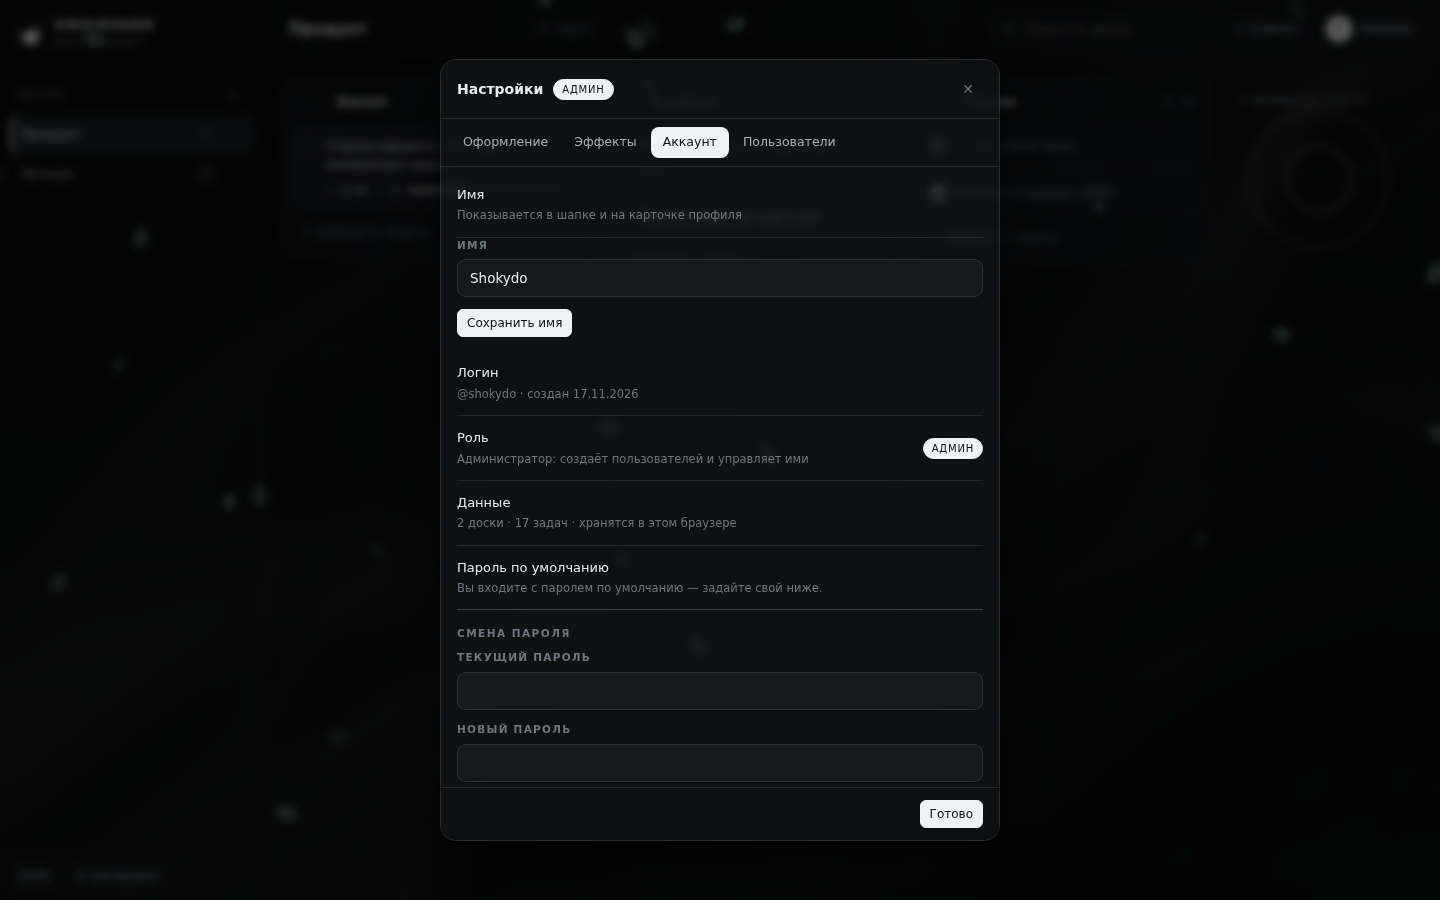
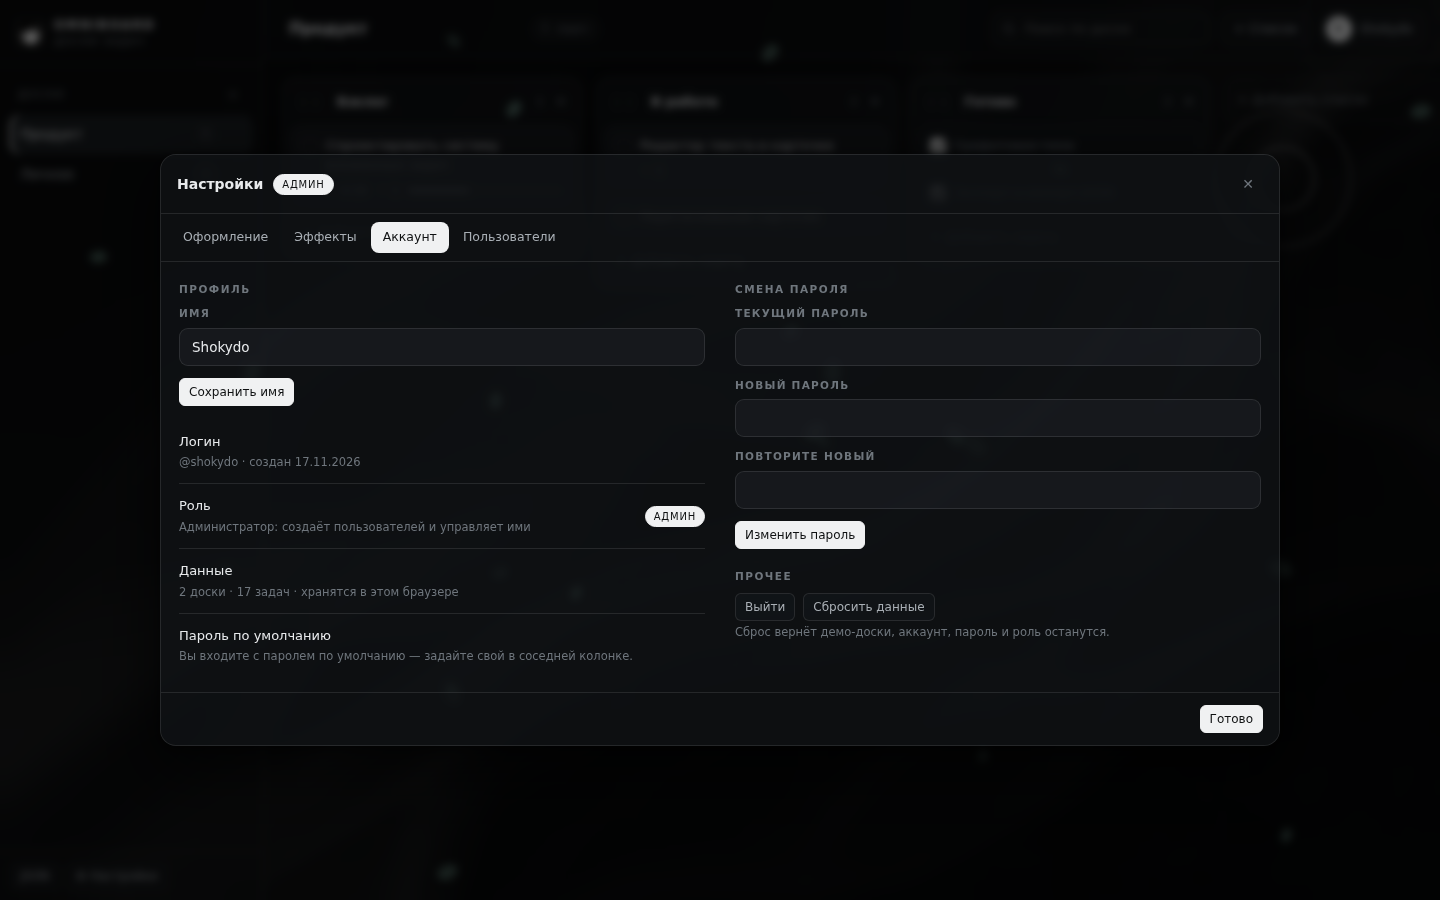
Окно настроек вдвое шире: двухколоночная раскладка вкладок

diff --git a/index.html b/index.html
@@ -511,7 +511,7 @@ html[data-theme="light"] .auth{background:linear-gradient(165deg, rgba(232,235,2
 .ubadge.admin{background:var(--solid);color:var(--solid-text);border-color:var(--solid)}
 .uacts{display:flex;gap:6px;flex:0 0 auto}
 .uacts .btn{padding:5px 9px;font-size:11.5px}
-.unew{margin-top:4px;padding-top:12px;border-top:1px dashed var(--line-2)}
+.unew{margin-top:4px}
 .auth-lead{font-size:12px;letter-spacing:.1em;text-transform:uppercase;color:var(--muted);margin:0 0 14px;font-weight:600}
 .auth-tabs{display:flex;gap:4px;background:var(--panel-2);border:1px solid var(--line);border-radius:10px;padding:4px;margin-bottom:18px}
 .auth-tab{flex:1;height:32px;border-radius:7px;color:var(--text-2);font-size:13px;font-weight:600;transition:.12s}
@@ -542,7 +542,7 @@ html[data-theme="light"] .auth{background:linear-gradient(165deg, rgba(232,235,2
 }
 html[data-theme="light"] .prefs{background:rgba(38,44,50,.42)}
 .prefs-card{
-  width:100%;max-width:560px;background:var(--panel);border:1px solid var(--line);border-radius:16px;
+  width:100%;max-width:1120px;background:var(--panel);border:1px solid var(--line);border-radius:16px;
   box-shadow:var(--shadow);overflow:hidden;margin:auto;
 }
 .prefs-head{display:flex;align-items:center;gap:10px;padding:14px 16px;border-bottom:1px solid var(--line);background:var(--bg-2)}
@@ -551,7 +551,21 @@ html[data-theme="light"] .prefs{background:rgba(38,44,50,.42)}
 .prefs-tabs button{padding:6px 12px;border-radius:8px;font-size:12.5px;color:var(--text-2);font-weight:500;white-space:nowrap;flex:0 0 auto}
 .prefs-tabs button:hover{color:var(--text);background:var(--panel-2)}
 .prefs-tabs button.on{background:var(--solid);color:var(--solid-text)}
-.prefs-body{padding:6px 16px 14px;max-height:min(70vh,620px);overflow:auto}
+.prefs-body{padding:6px 18px 14px;max-height:min(74vh,660px);overflow:auto}
+.fx-col{min-width:0}
+@media (min-width:1000px){
+  .prefs-body{display:grid;grid-template-columns:1fr 1fr;column-gap:30px;align-items:start}
+  .prefs-body > .prefs-row{grid-column:auto}
+  .prefs-body > .sec-title,
+  .prefs-body > .prefs-sub,
+  .prefs-body > .auth-msg,
+  .prefs-body > .field,
+  .prefs-body > .unew,
+  .prefs-body > .ulist,
+  .prefs-body > .prefs-hint,
+  .prefs-body > div[style]{grid-column:1 / -1}
+  .prefs-row + .prefs-row{border-top:0}
+}
 .prefs-foot{display:flex;gap:8px;justify-content:space-between;padding:12px 16px;border-top:1px solid var(--line);background:var(--bg-2)}
 .prefs-row{display:flex;align-items:center;justify-content:space-between;gap:14px;padding:12px 0;border-bottom:1px solid var(--line)}
 .prefs-row:last-child{border-bottom:0}
@@ -3212,6 +3226,7 @@ function fxTabHTML(){
   var shapes = [['snow', 'Снег'], ['flakes', 'Снежинки'], ['crosses', 'Крестики'], ['patterns', 'Узоры'], ['leaves', 'Листья']];
   var clicks = [['off', 'Нет'], ['wave', 'Волна'], ['ripple', 'Круг'], ['cross', 'Крестики'], ['spark', 'Искры']];
   return '' +
+    '<div class="fx-col">' +
     '<div class="sec-title" style="margin:14px 0 4px">Падающие частицы</div>' +
     '<div class="prefs-row"><div class="pr-main"><div class="prefs-label">Показывать частицы</div>' +
       '<div class="prefs-hint">Снежинки, крестики, узоры или листья поверх интерфейса</div></div>' +
@@ -3226,8 +3241,10 @@ function fxTabHTML(){
         '<output>' + (parseFloat(pt.speed) || 1).toFixed(1) + '×</output></div>' +
       colorRow('particles', pt.color, 'Цвет') +
     '</div>' +
+    '</div>' +
 
-    '<div class="sec-title" style="margin:18px 0 4px">Реакция на клик</div>' +
+    '<div class="fx-col">' +
+    '<div class="sec-title" style="margin:14px 0 4px">Реакция на клик</div>' +
     '<div class="slider-row"><label>Эффект</label>' + segHTML('ctype', clicks, ck.type) + '</div>' +
     '<div class="slider-row" style="' + (ck.type === 'off' ? 'opacity:.5' : '') + '"><label>Размер</label>' +
       '<input type="range" min="1" max="3" step="1" value="' + (parseInt(ck.size, 10) || 1) + '" data-range="csize">' +
@@ -3237,7 +3254,8 @@ function fxTabHTML(){
       '<button class="btn sm" data-prefs="test-fx">Проверить</button>' +
       '<span class="prefs-hint" style="margin:0">эффект срабатывает на любой клик мышью или пальцем</span></div>' +
     '<div class="prefs-hint">Цвет «Авто» следует теме: белый на тёмной, тёмно-серый на светлой. ' +
-      'Движение уважает системную настройку «уменьшить движение».</div>';
+      'Движение уважает системную настройку «уменьшить движение».</div>' +
+    '</div>';
 }
 
 /* ---------- вкладка «Аккаунт» ---------- */
@@ -3249,47 +3267,50 @@ function accountTabHTML(){
   var tasks = Object.keys(state.tasks).length;
 
   return '' +
-    '<div class="prefs-row"><div class="pr-main"><div class="prefs-label">Имя</div>' +
-      '<div class="prefs-hint">Показывается в шапке и на карточке профиля</div></div></div>' +
-    '<div class="field"><label for="acName">Имя</label>' +
-      '<input class="input" id="acName" value="' + esc(currentUser.name) + '"></div>' +
-    '<div style="margin-bottom:14px"><button class="btn solid sm" data-acc-act="save-name">Сохранить имя</button></div>' +
+    '<div class="fx-col">' +
+      '<div class="sec-title" style="margin:14px 0 8px">Профиль</div>' +
+      '<div class="field"><label for="acName">Имя</label>' +
+        '<input class="input" id="acName" value="' + esc(currentUser.name) + '"></div>' +
+      '<div style="margin-bottom:14px"><button class="btn solid sm" data-acc-act="save-name">Сохранить имя</button></div>' +
 
-    '<div class="prefs-row"><div class="pr-main"><div class="prefs-label">Логин</div>' +
-      '<div class="prefs-hint">@' + esc(currentUser.login) + ' · создан ' + fmtDate(rec && rec.created) + '</div></div></div>' +
+      '<div class="prefs-row"><div class="pr-main"><div class="prefs-label">Логин</div>' +
+        '<div class="prefs-hint">@' + esc(currentUser.login) + ' · создан ' + fmtDate(rec && rec.created) + '</div></div></div>' +
 
-    '<div class="prefs-row"><div class="pr-main"><div class="prefs-label">Роль</div>' +
-      '<div class="prefs-hint">' + (currentUser.role === 'admin'
-        ? 'Администратор: создаёт пользователей и управляет ими'
-        : 'Пользователь: свои доски и оформление') + '</div></div>' + roleBadge(currentUser.role) + '</div>' +
+      '<div class="prefs-row"><div class="pr-main"><div class="prefs-label">Роль</div>' +
+        '<div class="prefs-hint">' + (currentUser.role === 'admin'
+          ? 'Администратор: создаёт пользователей и управляет ими'
+          : 'Пользователь: свои доски и оформление') + '</div></div>' + roleBadge(currentUser.role) + '</div>' +
 
-    '<div class="prefs-row"><div class="pr-main"><div class="prefs-label">Данные</div>' +
-      '<div class="prefs-hint">' + boards + ' ' + plural(boards, ['доска', 'доски', 'досок']) + ' · ' +
-      tasks + ' ' + plural(tasks, ['задача', 'задачи', 'задач']) + ' · хранятся в этом браузере</div></div></div>' +
+      '<div class="prefs-row"><div class="pr-main"><div class="prefs-label">Данные</div>' +
+        '<div class="prefs-hint">' + boards + ' ' + plural(boards, ['доска', 'доски', 'досок']) + ' · ' +
+        tasks + ' ' + plural(tasks, ['задача', 'задачи', 'задач']) + ' · хранятся в этом браузере</div></div></div>' +
 
-    (rec && rec.defaultPw
-      ? '<div class="prefs-row" style="border-color:var(--line-2)"><div class="pr-main">' +
-          '<div class="prefs-label">Пароль по умолчанию</div>' +
-          '<div class="prefs-hint">Вы входите с паролем по умолчанию — задайте свой ниже.</div></div></div>'
-      : '') +
-
-    '<div class="auth-msg" id="acMsg"></div>' +
-
-    '<div class="sec-title" style="margin:16px 0 8px">Смена пароля</div>' +
-    '<div class="field"><label for="acCur">Текущий пароль</label>' +
-      '<input class="input" id="acCur" type="password" autocomplete="current-password"></div>' +
-    '<div class="field"><label for="acNew">Новый пароль</label>' +
-      '<input class="input" id="acNew" type="password" autocomplete="new-password"></div>' +
-    '<div class="field"><label for="acNew2">Повторите новый</label>' +
-      '<input class="input" id="acNew2" type="password" autocomplete="new-password"></div>' +
-    '<button class="btn solid sm" data-acc-act="save-pass">Изменить пароль</button>' +
-
-    '<div class="sec-title" style="margin:18px 0 8px">Прочее</div>' +
-    '<div style="display:flex;gap:8px;flex-wrap:wrap">' +
-      '<button class="btn sm" data-acc-act="logout">Выйти</button>' +
-      '<button class="btn sm danger" data-acc-act="reset">Сбросить данные</button>' +
+      (rec && rec.defaultPw
+        ? '<div class="prefs-row" style="border-color:var(--line-2)"><div class="pr-main">' +
+            '<div class="prefs-label">Пароль по умолчанию</div>' +
+            '<div class="prefs-hint">Вы входите с паролем по умолчанию — задайте свой в соседней колонке.</div></div></div>'
+        : '') +
     '</div>' +
-    '<div class="prefs-hint">Сброс вернёт демо-доски, аккаунт, пароль и роль останутся.</div>';
+
+    '<div class="fx-col">' +
+      '<div class="sec-title" style="margin:14px 0 8px">Смена пароля</div>' +
+      '<div class="field"><label for="acCur">Текущий пароль</label>' +
+        '<input class="input" id="acCur" type="password" autocomplete="current-password"></div>' +
+      '<div class="field"><label for="acNew">Новый пароль</label>' +
+        '<input class="input" id="acNew" type="password" autocomplete="new-password"></div>' +
+      '<div class="field"><label for="acNew2">Повторите новый</label>' +
+        '<input class="input" id="acNew2" type="password" autocomplete="new-password"></div>' +
+      '<button class="btn solid sm" data-acc-act="save-pass">Изменить пароль</button>' +
+
+      '<div class="sec-title" style="margin:20px 0 8px">Прочее</div>' +
+      '<div style="display:flex;gap:8px;flex-wrap:wrap">' +
+        '<button class="btn sm" data-acc-act="logout">Выйти</button>' +
+        '<button class="btn sm danger" data-acc-act="reset">Сбросить данные</button>' +
+      '</div>' +
+      '<div class="prefs-hint">Сброс вернёт демо-доски, аккаунт, пароль и роль останутся.</div>' +
+    '</div>' +
+
+    '<div class="auth-msg" id="acMsg"></div>';
 }
 
 /* ---------- вкладка «Пользователи» ---------- */
@@ -3313,11 +3334,14 @@ function usersTabHTML(){
       '</div></div>';
   }).join('');
 
-  return '<div class="sec-title" style="margin:14px 0 6px">Пользователи · ' + auth.users.length + '</div>' +
-    '<div class="ulist" id="userList">' + rows + '</div>' +
-    '<div class="auth-msg" id="acMsg"></div>' +
+  return '<div class="fx-col">' +
+      '<div class="sec-title" style="margin:14px 0 6px">Пользователи · ' + auth.users.length + '</div>' +
+      '<div class="ulist" id="userList">' + rows + '</div>' +
+    '</div>' +
+    '<div class="fx-col">' +
     '<div class="unew">' +
-      '<div class="field"><label for="nuLogin">Логин нового пользователя</label>' +
+      '<div class="sec-title" style="margin:14px 0 8px">Новый пользователь</div>' +
+      '<div class="field"><label for="nuLogin">Логин</label>' +
         '<input class="input" id="nuLogin" type="text" placeholder="например, anna" autocapitalize="none" spellcheck="false"></div>' +
       '<div class="field"><label for="nuName">Имя</label>' +
         '<input class="input" id="nuName" type="text" placeholder="как показывать в шапке"></div>' +
@@ -3326,7 +3350,8 @@ function usersTabHTML(){
       '<button class="btn solid sm" data-acc-act="user-new">Создать пользователя</button>' +
       '<div class="prefs-hint" style="margin-top:8px">Пароль виден здесь, чтобы вы могли передать его человеку. ' +
         'Свои данные каждый пользователь хранит в своём браузере.</div>' +
-    '</div>';
+    '</div></div>' +
+    '<div class="auth-msg" id="acMsg"></div>';
 }
 
 function tabHTML(tab){
